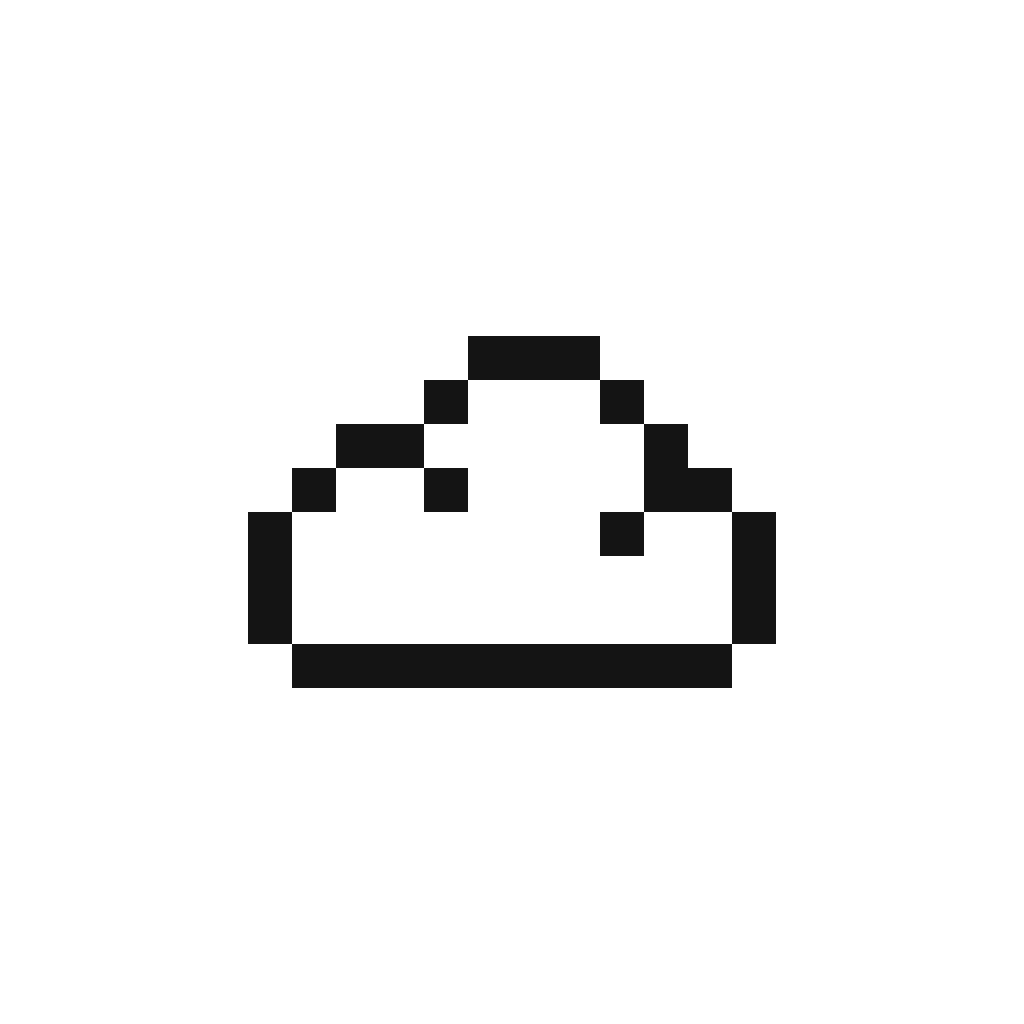
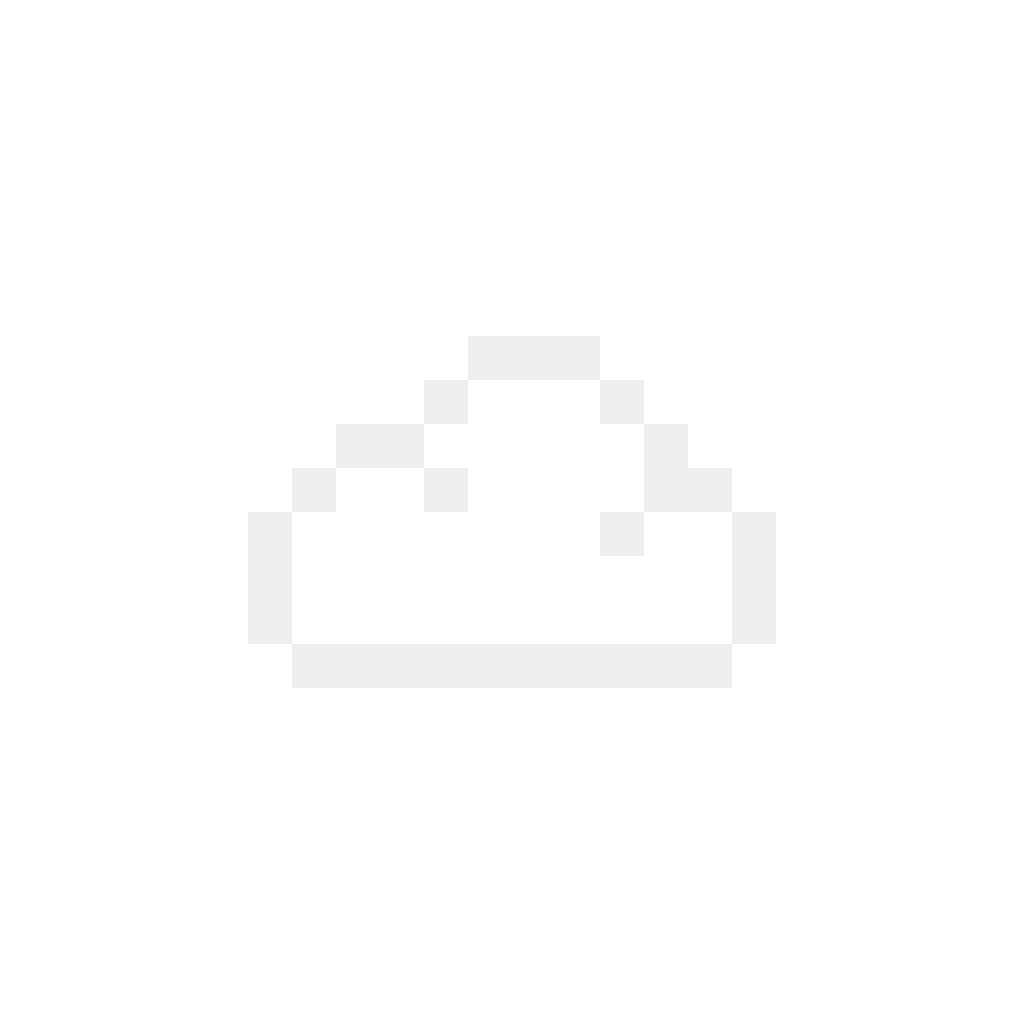
feat(mobile): ícone do app com fundo escuro fixo
A logo clara sobre #141414: os lançadores do Android não seguem o tema
do sistema, então o ícone fica escuro em qualquer aparelho.

Changed region(s): [[0.2188, 0.3125, 0.7812, 0.6875]]

diff --git a/apps/mobile/app.config.js b/apps/mobile/app.config.js
@@ -8,7 +8,7 @@ export default {
     orientation: 'portrait',
     scheme: 'bridgit',
     userInterfaceStyle: 'automatic',
-    // The Bridgit logo in ink on paper, like the launch screen.
+    // The Bridgit logo, light on a fixed dark ground (launchers ignore the system theme).
     icon: './assets/icon.png',
     newArchEnabled: true,
     android: {
@@ -17,7 +17,7 @@ export default {
       adaptiveIcon: {
         foregroundImage: './assets/adaptive-icon.png',
         monochromeImage: './assets/adaptive-icon.png',
-        backgroundColor: '#ffffff',
+        backgroundColor: '#141414',
       },
       // Edge to edge, "resize" leaves the window still and hands the keyboard height to the app
       // (sheets and screens make room themselves); "pan" would shift the whole window, background
